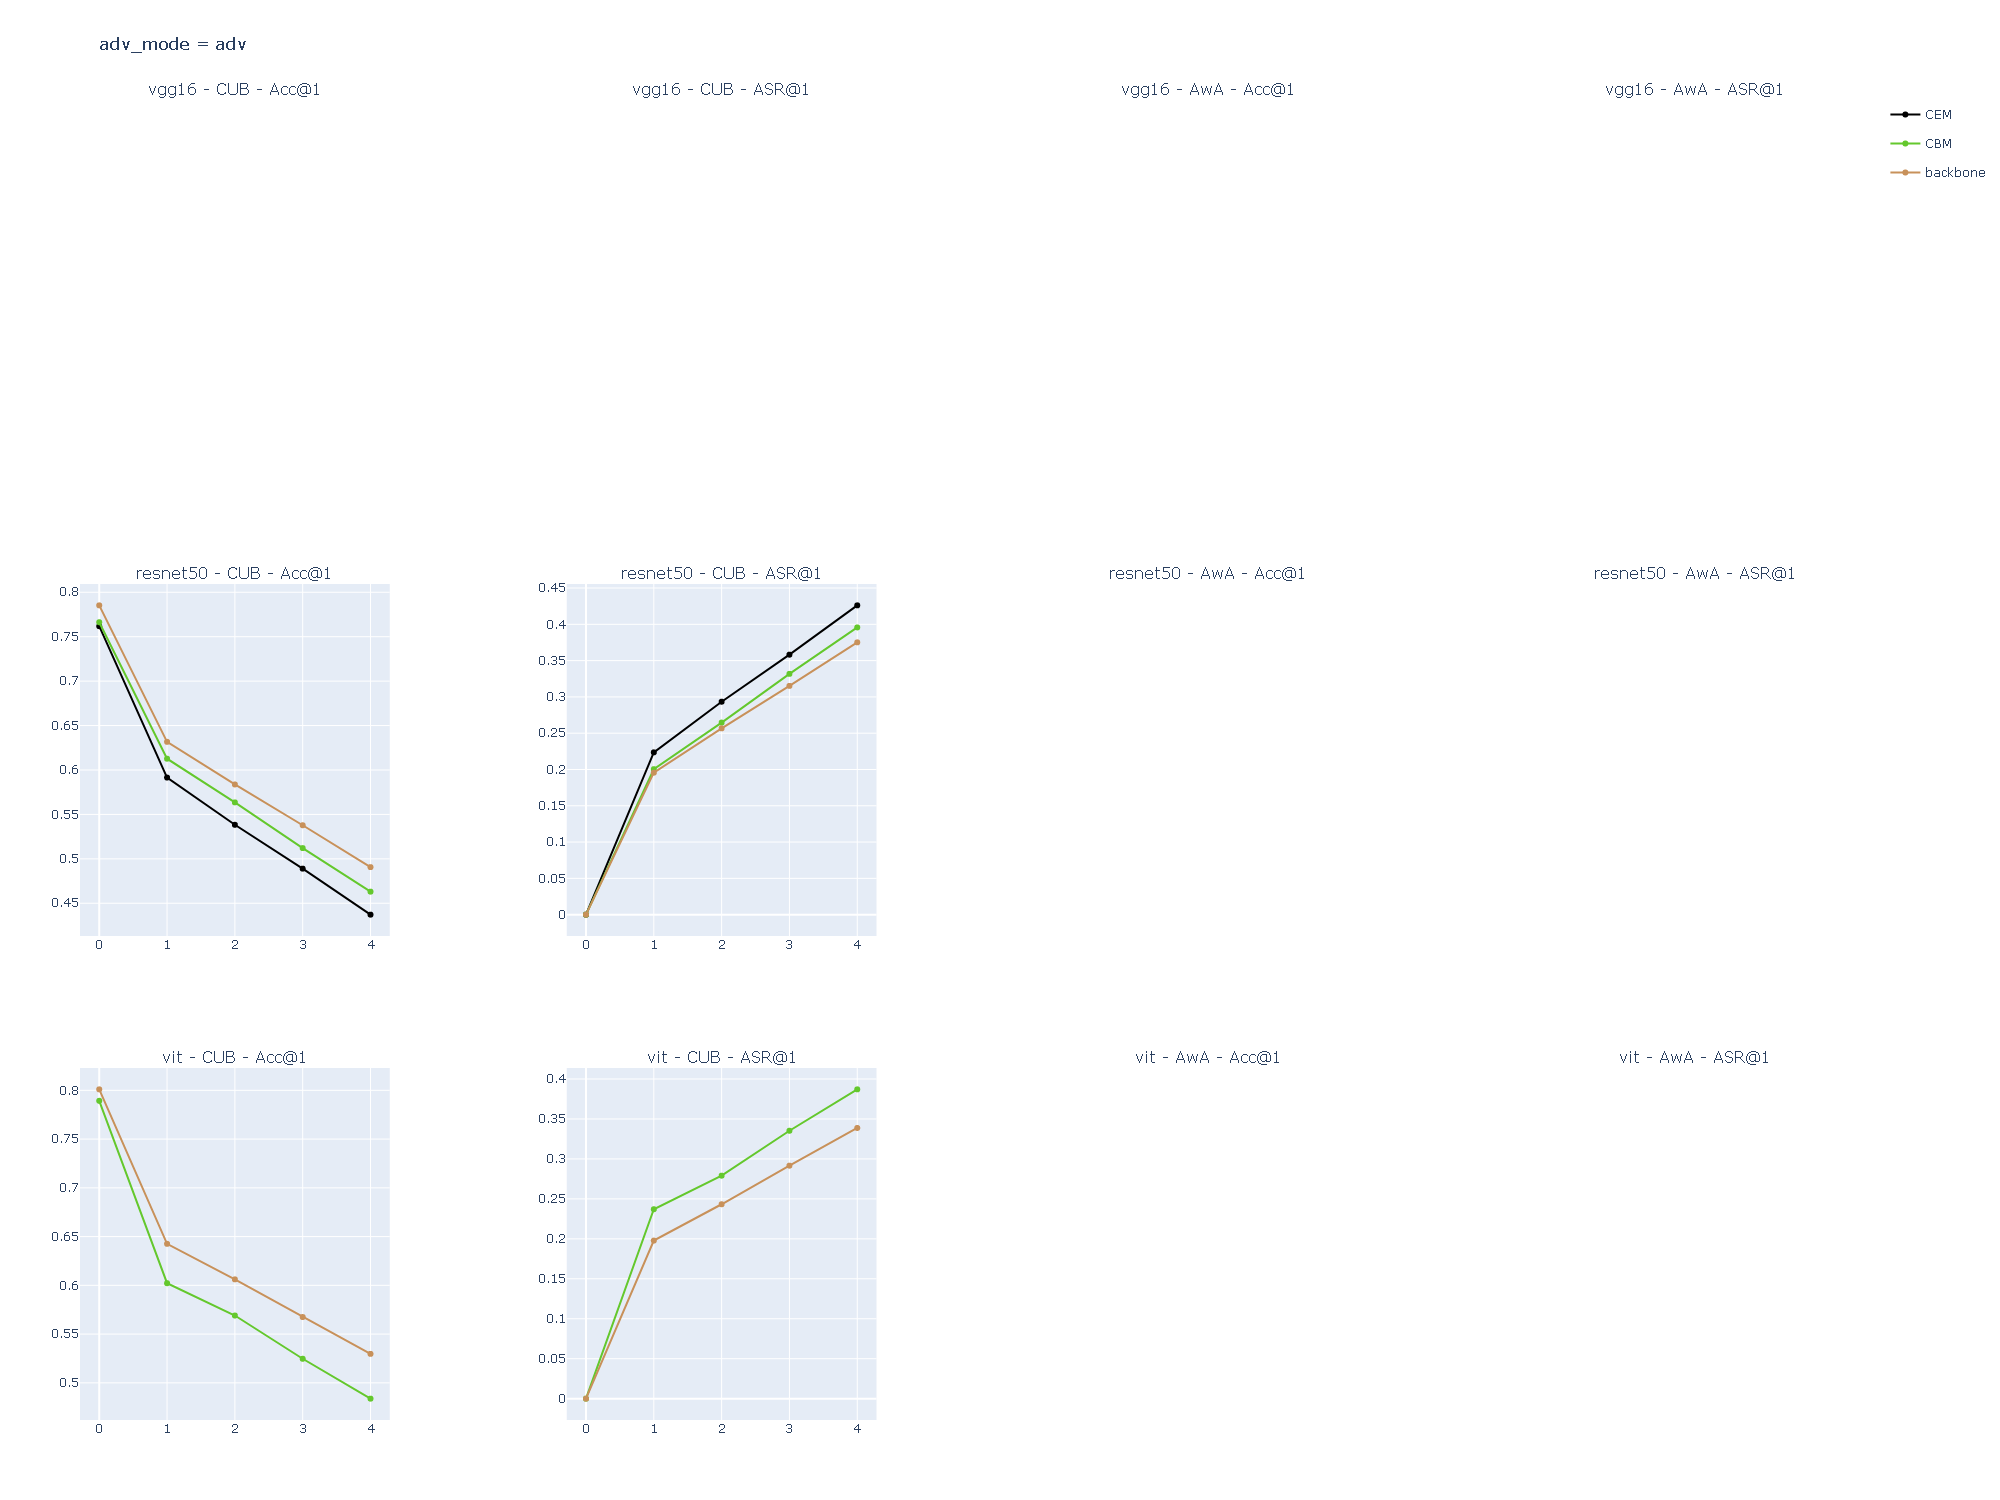
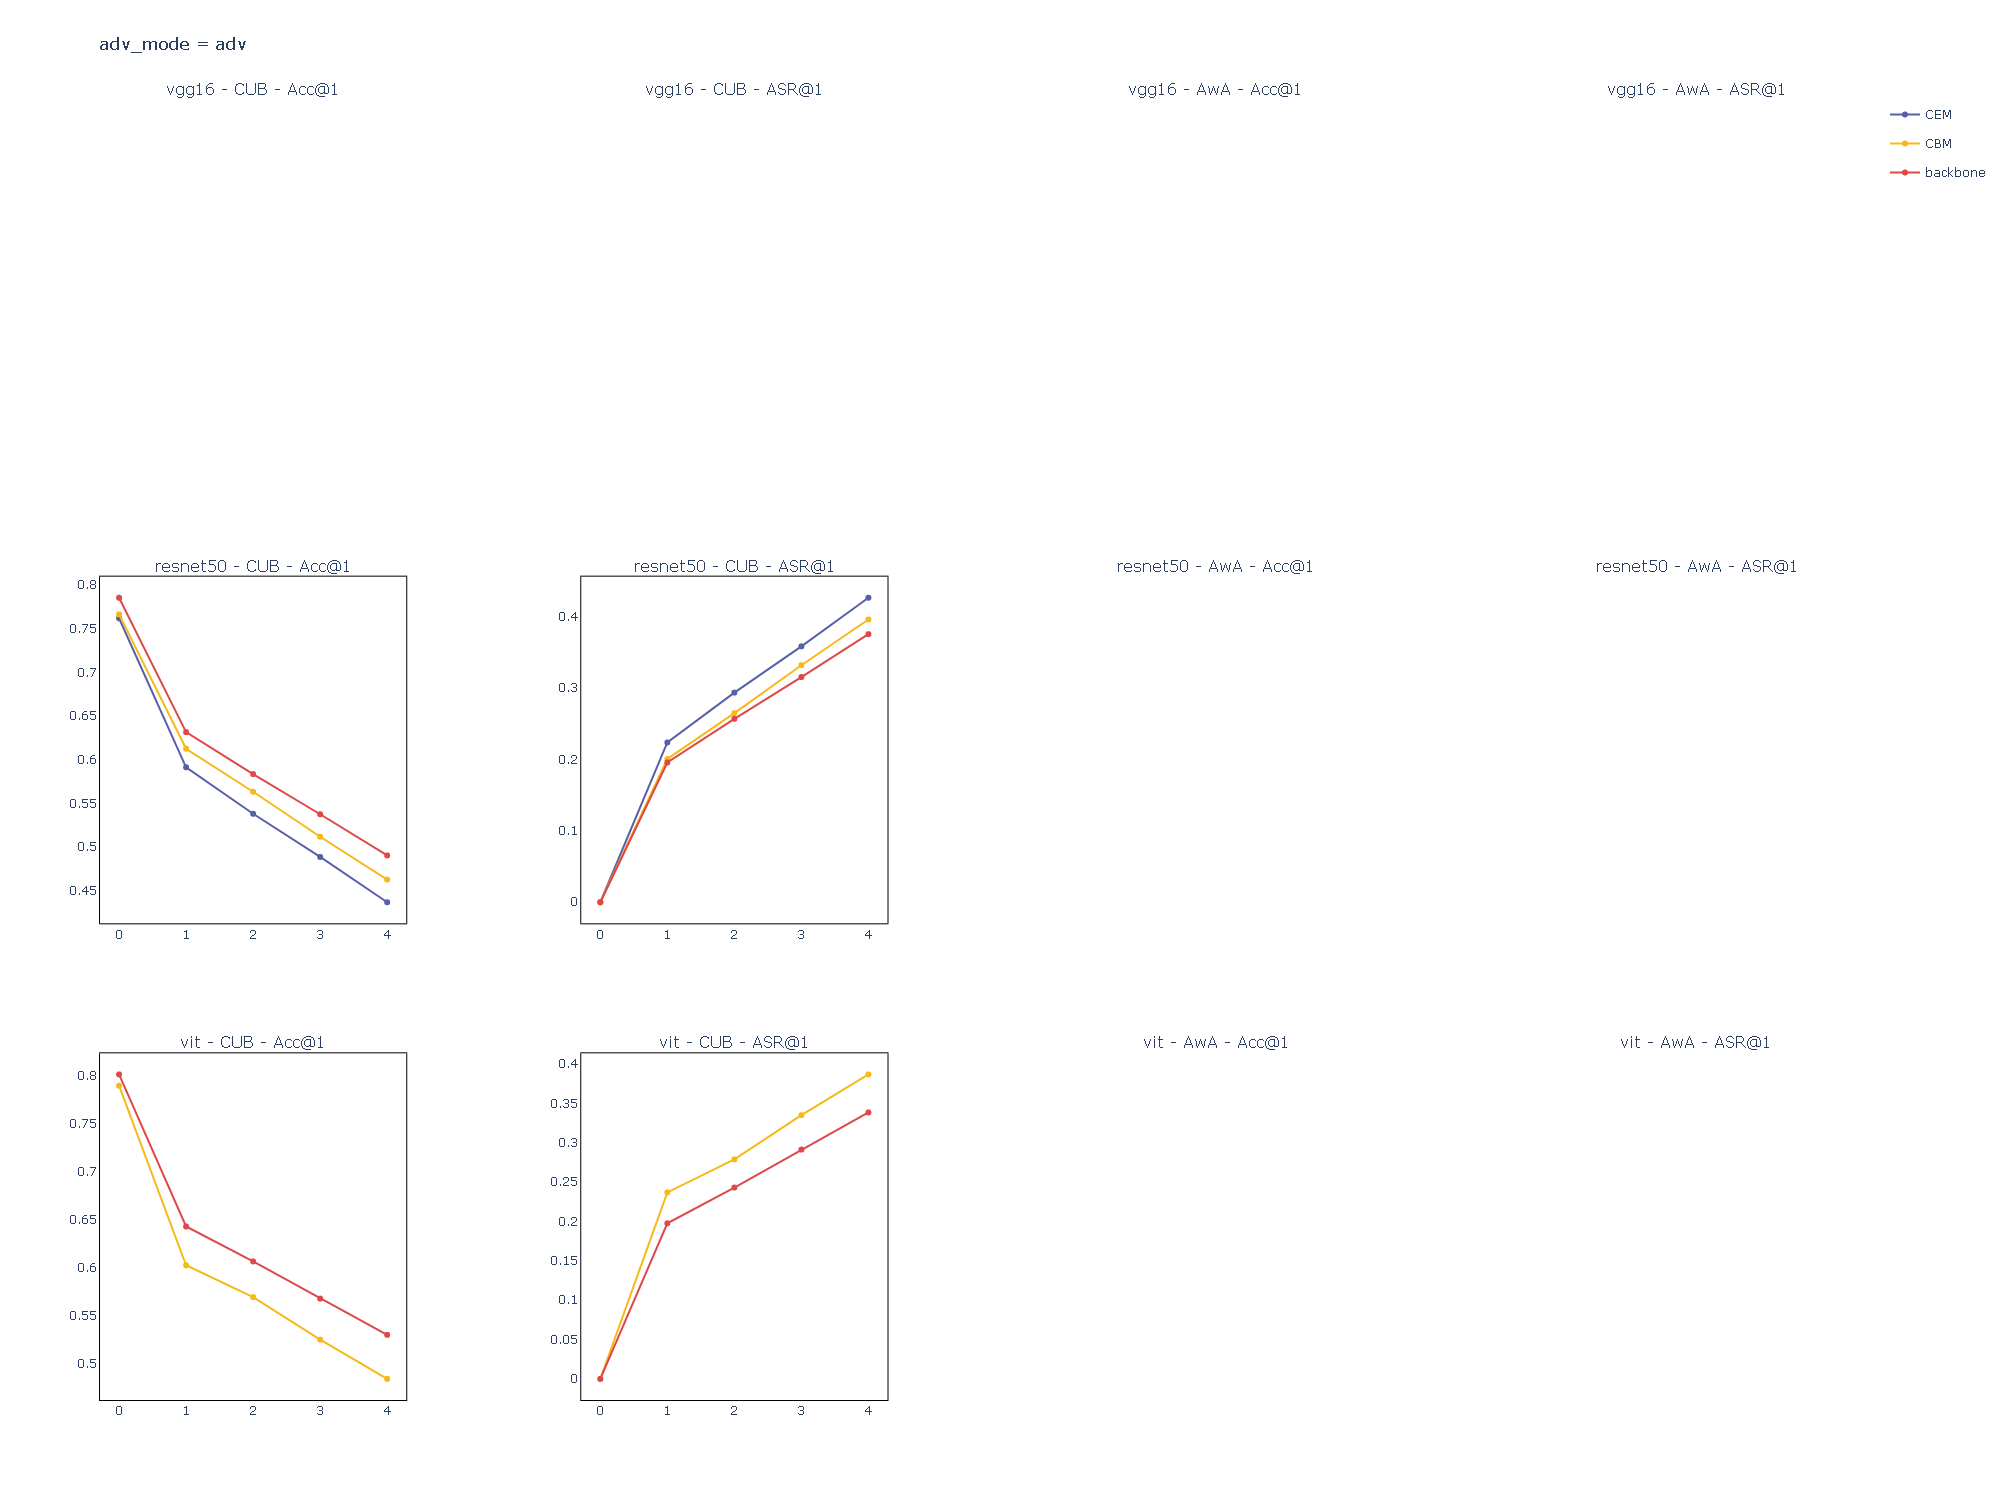
change color

diff --git a/draw.py b/draw.py
@@ -25,6 +25,7 @@ def plot_by_mode(source, adv_mode, output_folder="figs"):
         horizontal_spacing=0.1,
     )
 
+    fixed_colors = ["#5760A8", "#F6B917", "#DE4849"]
     model_colors = {}
     legends = set()
     for i, base in enumerate(base_models):
@@ -35,11 +36,10 @@ def plot_by_mode(source, adv_mode, output_folder="figs"):
                 ]
             subset = subset.dropna(subset=[metric])
 
-            for run in subset['model'].unique():
+            for idx, run in enumerate(subset['model'].unique()):
                 data = subset[subset['model'] == run].iloc[0]
                 if run not in model_colors:
-                    model_colors[run] = \
-                        f'rgb({(len(model_colors) * 100) % 255}, {(len(model_colors) * 200) % 255}, {(len(model_colors) * 300) % 255})'
+                    model_colors[run] = fixed_colors[idx % len(fixed_colors)]
                 color = model_colors[run]
 
                 if run not in legends:
@@ -65,8 +65,21 @@ def plot_by_mode(source, adv_mode, output_folder="figs"):
         height=1500,
         width=2000,
         title_text=f"adv_mode = {adv_mode}",
-        showlegend=True
+        showlegend=True,
+        paper_bgcolor='white',
+        plot_bgcolor='white',
+        margin=dict(t=100, b=100, l=100, r=100),
+        xaxis=dict(showline=True, linecolor='black'),
+        yaxis=dict(showline=True, linecolor='black'),
     )
+
+    for i in range(1, 13):
+        fig.update_layout(
+            **{
+                f"xaxis{i}": dict(showline=True, linecolor="black", showgrid=False, mirror=True),
+                f"yaxis{i}": dict(showline=True, linecolor="black", showgrid=False, mirror=True),
+            }
+        )
 
     os.makedirs(output_folder, exist_ok=True)
     output_path = os.path.join(output_folder, f"pic_{adv_mode}.png")
